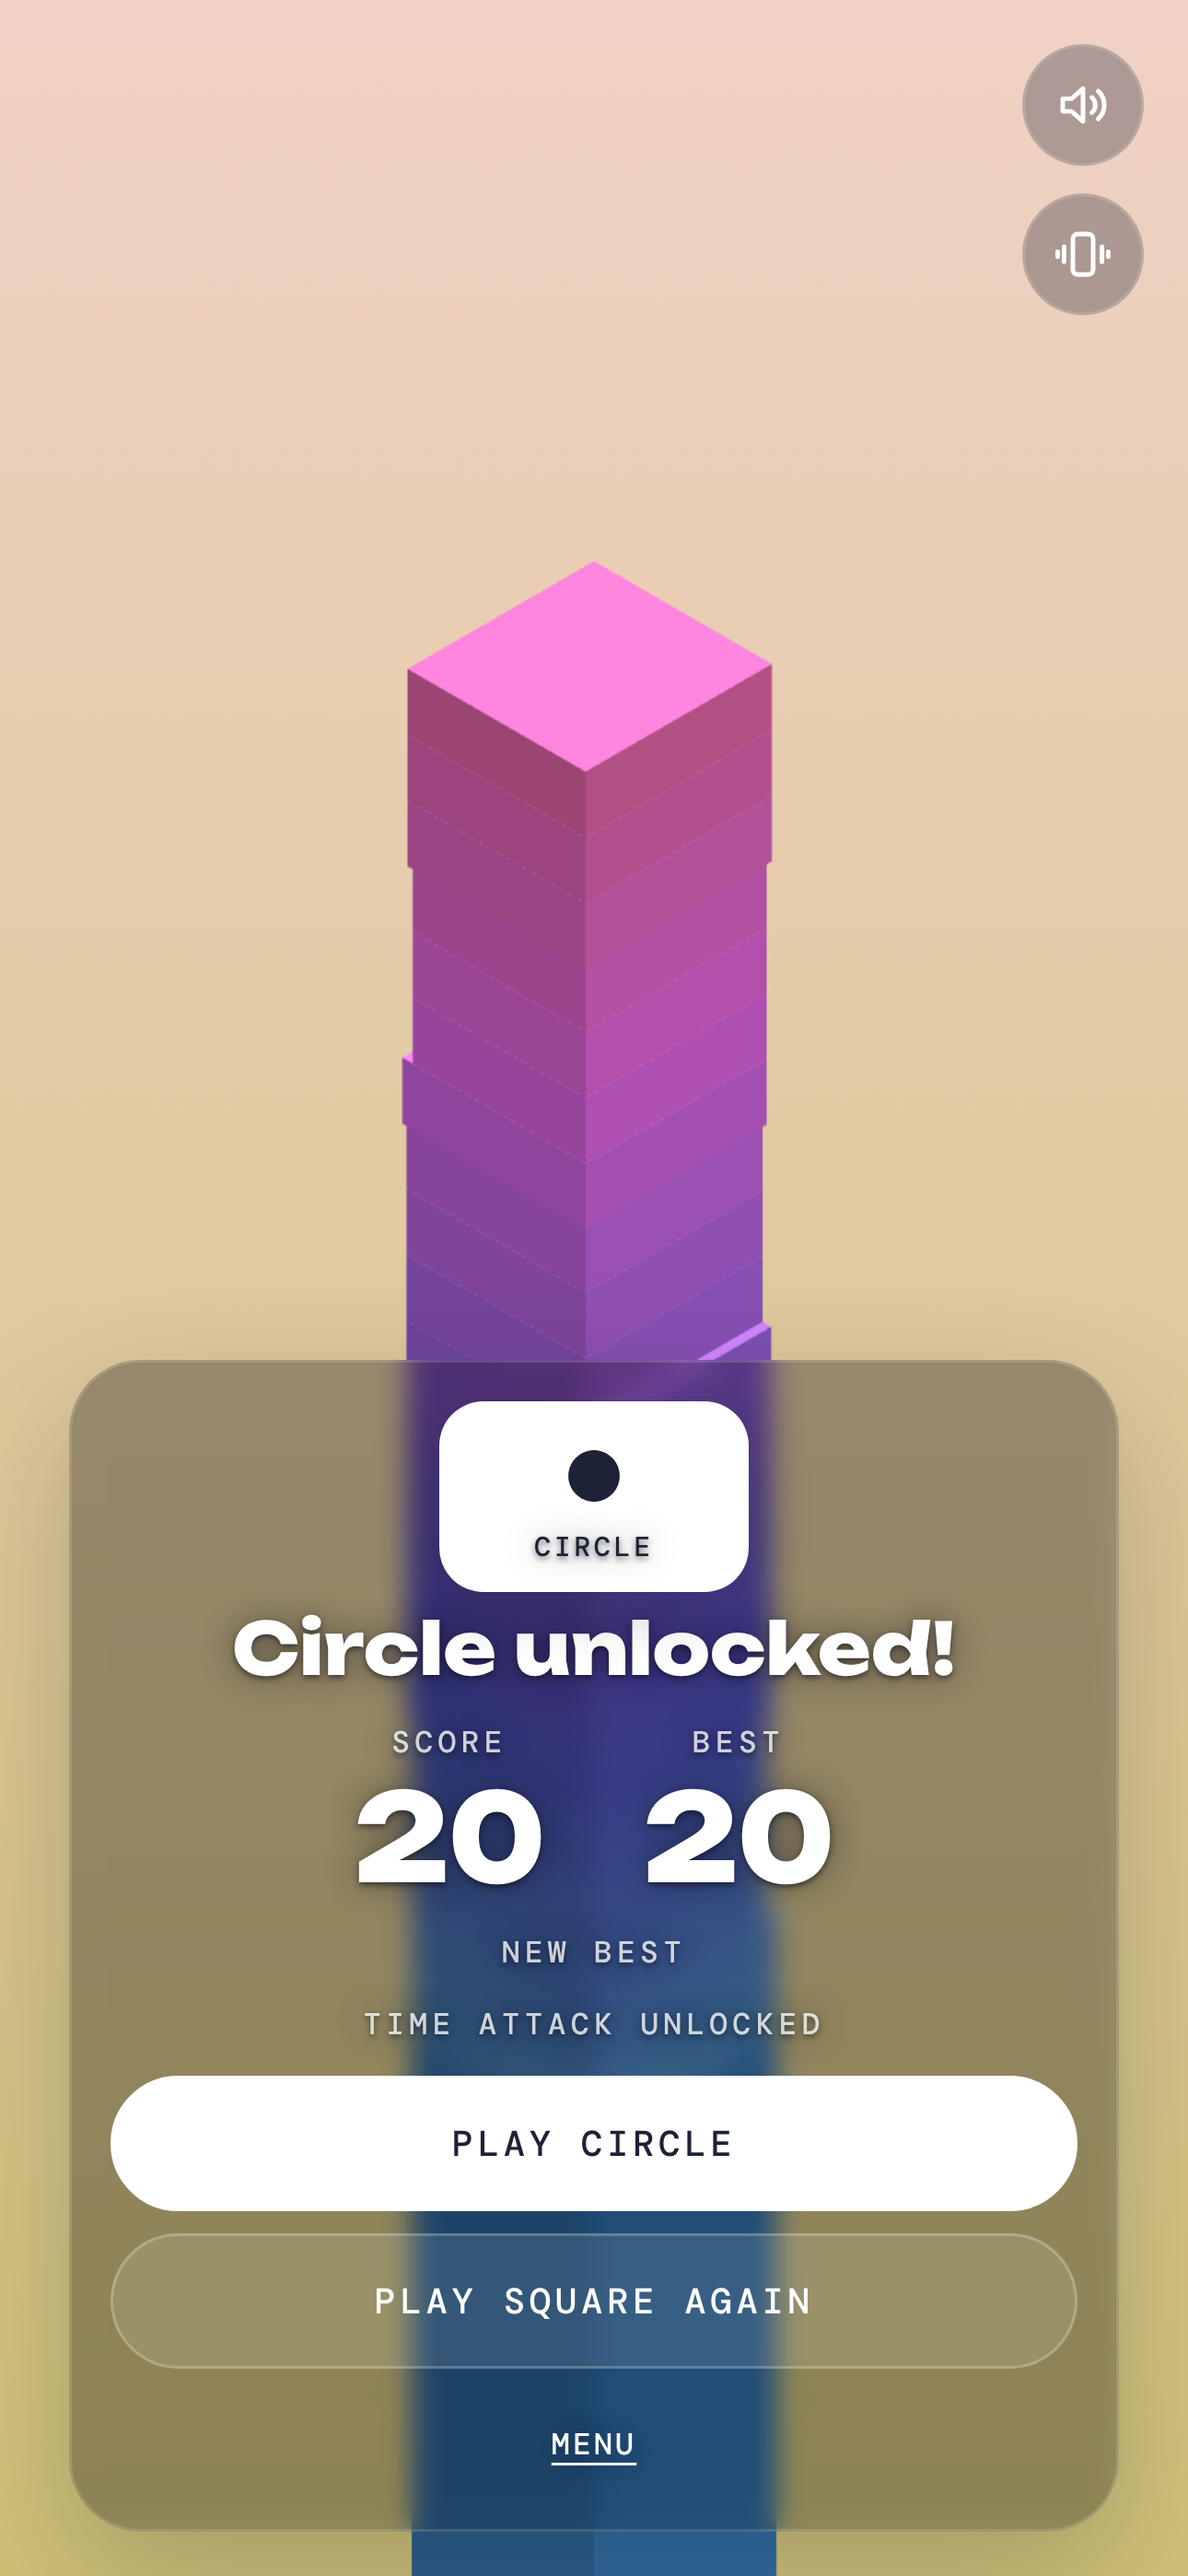
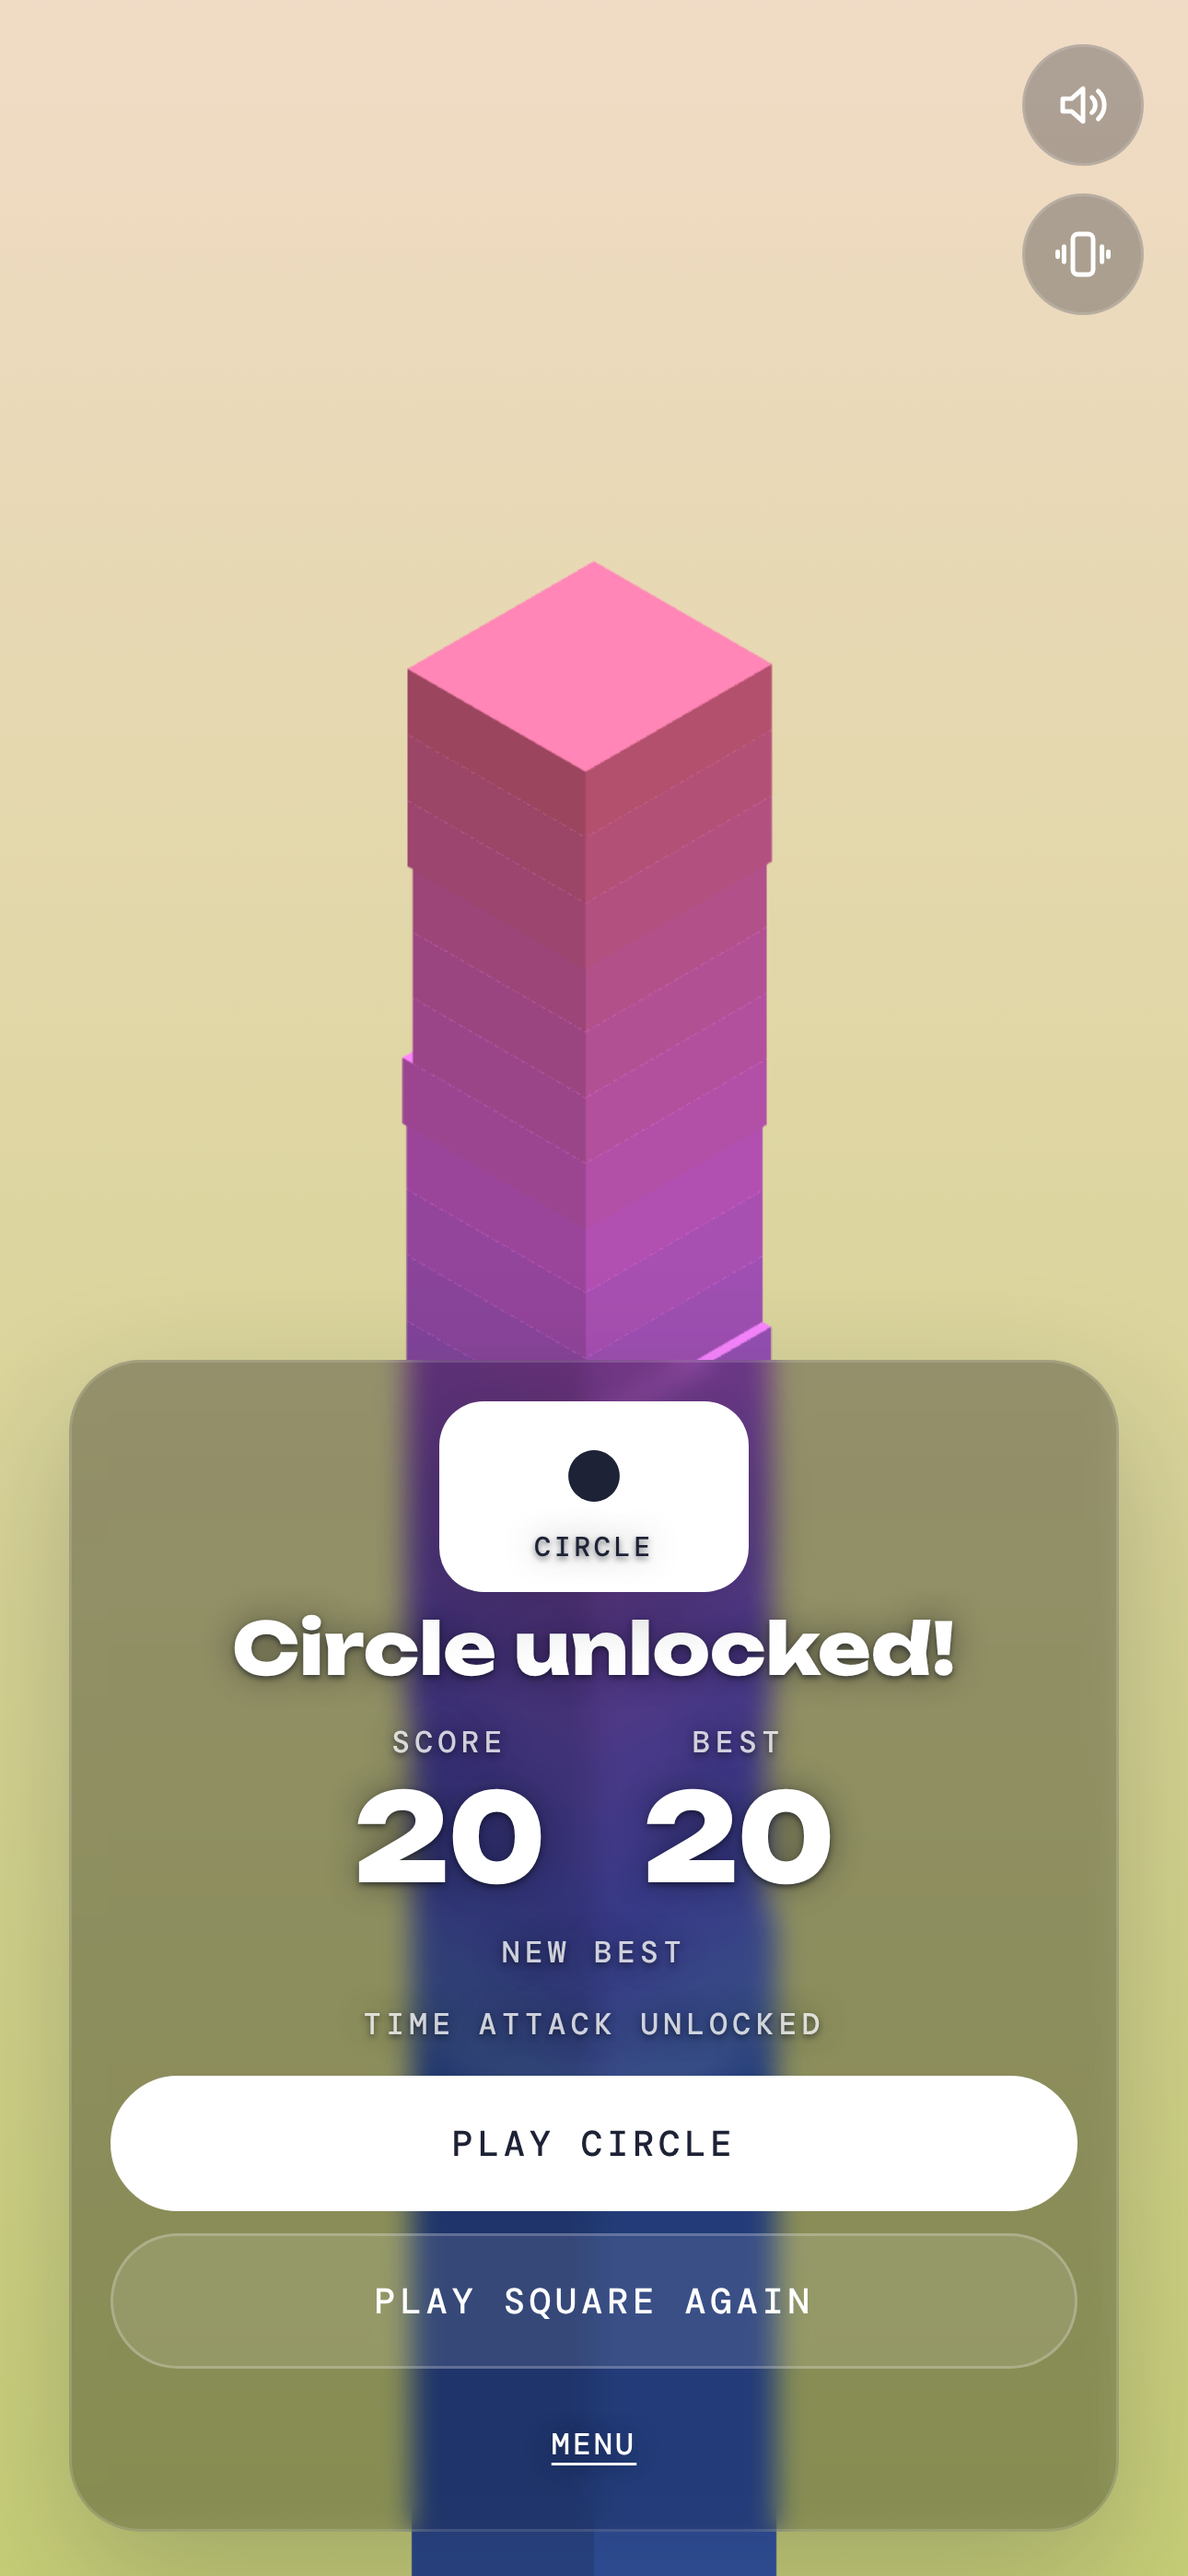
iOS screenshots without the help button to match build 23 in review
Claude-Session: https://claude.ai/code/session_01V4XFNXmKupe4vu1JxpJbLf

Changed region(s): [[0.3411, 0.2178, 0.6512, 0.3112], [0.5891, 0.4979, 0.6512, 0.529]]

diff --git a/design/screens-store.py b/design/screens-store.py
@@ -10,6 +10,7 @@ DEVICES = {  # css viewport x3 = store pixel size
     'android': (360, 640, 'android'),   # 1080 x 1920, Google Play phone
 }
 name = sys.argv[1] if len(sys.argv) > 1 else 'iphone'
+HIDE_HELP = '--no-help' in sys.argv  # match builds from before the tutorial (iOS 1.0 build 23)
 w, h, store = DEVICES[name]
 out = root / 'store' / store / 'screenshots'
 url = f'file://{root}/www/index.html#shots'
@@ -23,6 +24,7 @@ with sync_playwright() as p:
         pg = b.new_page(viewport={'width': w, 'height': h}, device_scale_factor=3)
         pg.on('pageerror', lambda e: print('JS error:', e)); pg.goto(url); pg.wait_for_function('window.__ts'); pg.wait_for_timeout(500)
         pg.evaluate(f"localStorage.setItem('ss_games','{games}'); localStorage.setItem('ss_tut_done','1')")
+        if HIDE_HELP: pg.add_style_tag(content='#helpBtn{display:none!important}')
         return pg
     def save(pg, shot):
         d = out / f'{name}-{shot}.png'; pg.screenshot(path=str(d)); Image.open(d).convert('RGB').save(d)  # Apple rejects alpha
